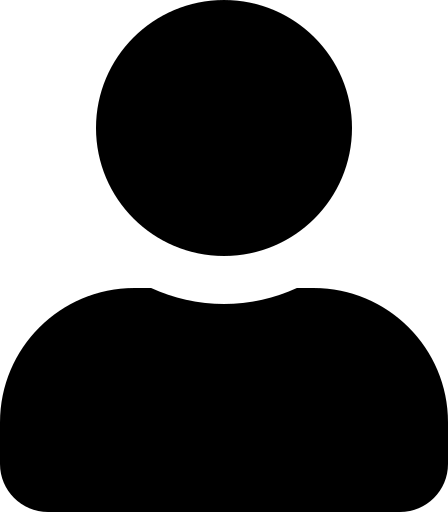
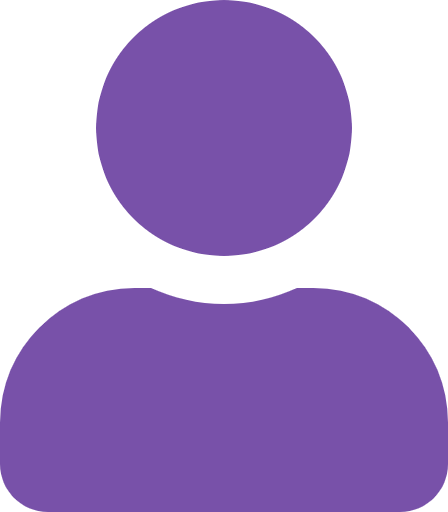
Add basic styling

diff --git a/src/main/resources/stylesheets/base.css b/src/main/resources/stylesheets/base.css
@@ -1,0 +1,4 @@
+.user-dialog-box .label {
+    -fx-text-fill: #7851A9;
+    -fx-font-weight: bold;
+}

diff --git a/src/main/java/duke/view/DialogBox.java b/src/main/java/duke/view/DialogBox.java
@@ -17,7 +17,7 @@ public class DialogBox extends HBox {
 
     private DialogBox(String text, Image img) {
         try {
-            FXMLLoader fxmlLoader = new FXMLLoader(this.getClass().getResource("/view/DialogBox.fxml"));
+            FXMLLoader fxmlLoader = new FXMLLoader(this.getClass().getResource("/views/DialogBox.fxml"));
             fxmlLoader.setController(this);
             fxmlLoader.setRoot(this);
             fxmlLoader.load();
@@ -30,7 +30,10 @@ public class DialogBox extends HBox {
     }
 
     public static DialogBox getUserDialog(String text, Image img) {
-        return new DialogBox(text, img);
+        DialogBox dialogBox = new DialogBox(text, img);
+        dialogBox.getStyleClass().add("user-dialog-box");
+
+        return dialogBox;
     }
 
     public static DialogBox getDukeDialog(String text, Image img) {

diff --git a/src/main/java/duke/Main.java b/src/main/java/duke/Main.java
@@ -6,6 +6,7 @@ import duke.view.MainWindow;
 import javafx.application.Application;
 import javafx.scene.Scene;
 import javafx.scene.control.Alert;
+import javafx.scene.image.Image;
 import javafx.scene.layout.AnchorPane;
 import javafx.stage.Stage;
 
@@ -30,8 +31,10 @@ public class Main extends Application {
         AnchorPane mainWindow = new MainWindow(this.duke);
         Scene scene = new Scene(mainWindow);
 
+        scene.getStylesheets().add("/stylesheets/base.css");
         stage.setScene(scene);
         stage.setTitle("Duke");
+        stage.getIcons().add(new Image(this.getClass().getResourceAsStream("/images/crown-solid.png")));
         stage.show();
     }
 }

diff --git a/src/main/java/duke/view/MainWindow.java b/src/main/java/duke/view/MainWindow.java
@@ -42,7 +42,7 @@ public class MainWindow extends AnchorPane {
         this.dukeImage = new Image(this.getClass().getResourceAsStream("/images/crown-solid.png"));
 
         try {
-            FXMLLoader fxmlLoader = new FXMLLoader(this.getClass().getResource("/view/MainWindow.fxml"));
+            FXMLLoader fxmlLoader = new FXMLLoader(this.getClass().getResource("/views/MainWindow.fxml"));
             fxmlLoader.setController(this);
             fxmlLoader.setRoot(this);
             fxmlLoader.load();
